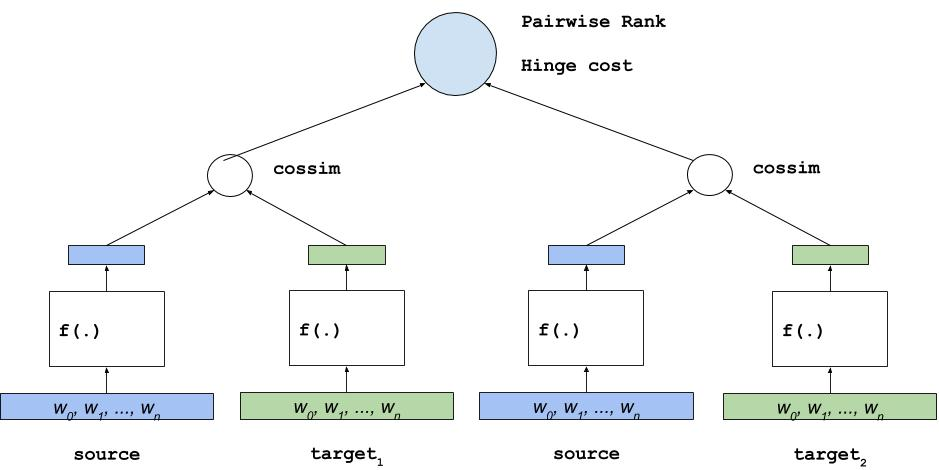
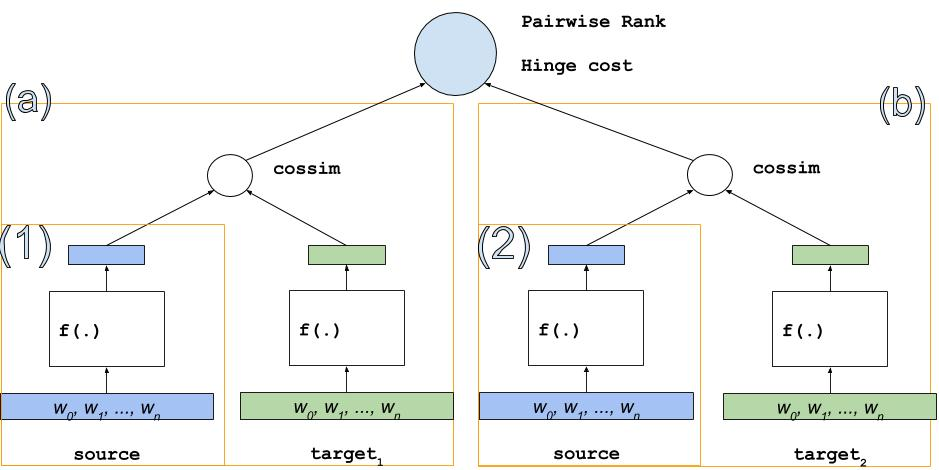
add new images

diff --git a/dssm/README.md b/dssm/README.md
@@ -60,11 +60,11 @@ DSSM 已经发展成了一个框架，可以很自然地建模两个记录之间
 - RNN，递归神经网络
 
 ## 模型实现
-DSSM模型可以拆成三小块实现，分别是左边和右边的DNN，
-以及顶层的损失函数，在复杂任务中，左右两边DNN的结构可以是不同的，比如在原始论文中左右分别学习Query和Document的semantic vector，
-两者数据的数据不同，最好定制下对应的DNN结构。
+DSSM模型可以拆成三小块实现，分别是左边和右边的DNN，以及顶层的损失函数。
+在复杂任务中，左右两边DNN的结构可以是不同的，比如在原始论文中左右分别学习Query和Document的semantic vector，
+两者数据的数据不同，建议对应定制DNN的结构。
 
-本教程中为了简便和通用，将左右两个DNN的结构都设为相同的，因此只有三个选项FC,CNN,RNN等。
+本例中为了简便和通用，将左右两个DNN的结构都设为相同的，因此只有三个选项FC,CNN,RNN等。
 
 在损失函数的设计方面，也支持三种，CLASSIFICATION, REGRESSION, RANK；
 其中，在REGRESSION和RANK两种损失中，左右两边的匹配程度通过余弦相似度（cossim）来计算；
@@ -81,14 +81,18 @@ DSSM模型可以拆成三小块实现，分别是左边和右边的DNN，
 如图3，REGRESSION 和 CLASSIFICATION 模型的结构很相似
 
 <p align="center">
-<img src="./images/dssm.jpg"/><br/><br/>
+<img src="./images/dssm3.jpg"/><br/><br/>
 图 3. DSSM for REGRESSION or CLASSIFICATION
 </p>
 
-最重要的组成部分包括 embedding，左右两个sentece vector的学习器（可以用RNN/CNN/FC中的任意一种实现），
+最重要的组成部分包括 word embedding，图中`(1)`,`(2)`两个低纬向量的学习器（可以用RNN/CNN/FC中的任意一种实现），
 最上层对应的损失函数。
 
-而Pairwise Rank的结构会复杂一些，类似两个 图 3. 中的结构，增加了对应的 Hinge lost的损失函数。
+而Pairwise Rank的结构会复杂一些，类似两个 图 4. 中的结构，增加了对应的 Hinge lost的损失函数：
+
+- 模型总体思想是，用同一个source为左右两个target分别打分——`(a),(b)`，学习目标是(a),(b)间的大小关系
+- `(a)`和`(b)`类似图3中结构，用于给source和target的pair打分
+- `(1)`和`(2)`的结构其实是共用的，都表示同一个source，图中为了表达效果展开成两个
 
 <p align="center">
 <img src="./images/dssm2.jpg"/><br/><br/>
